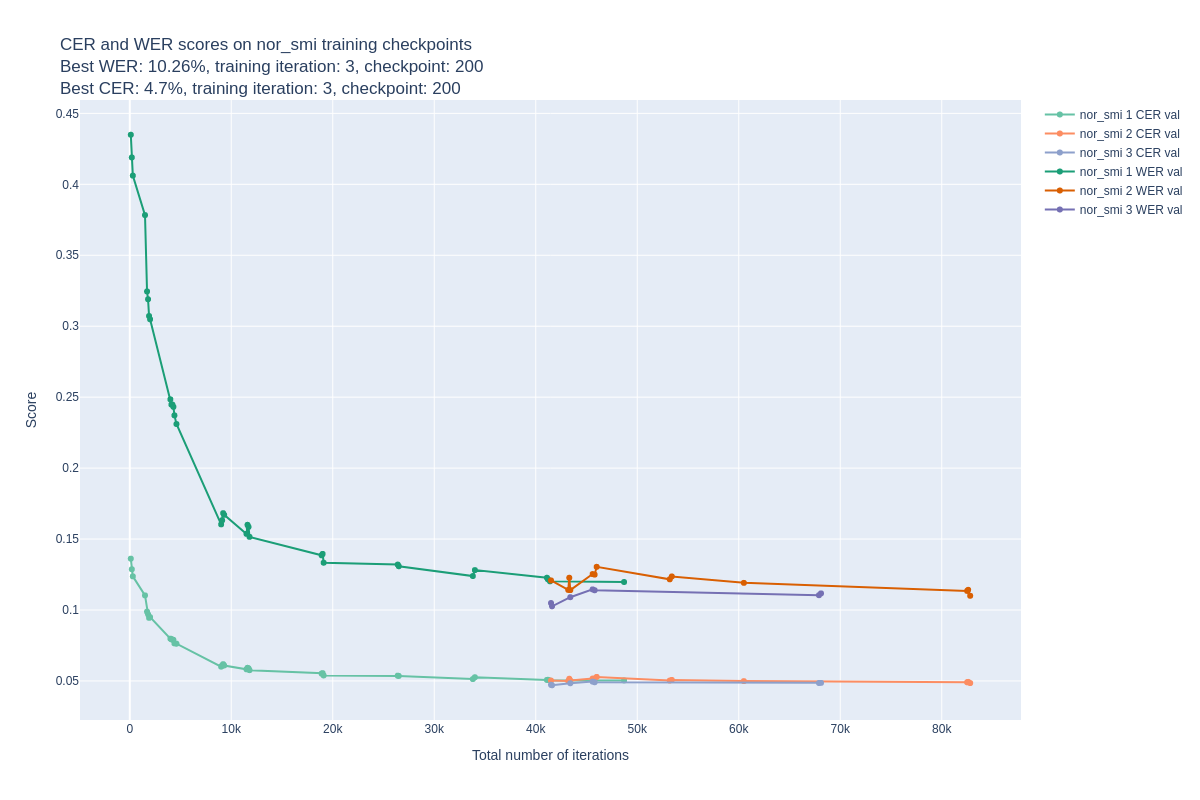
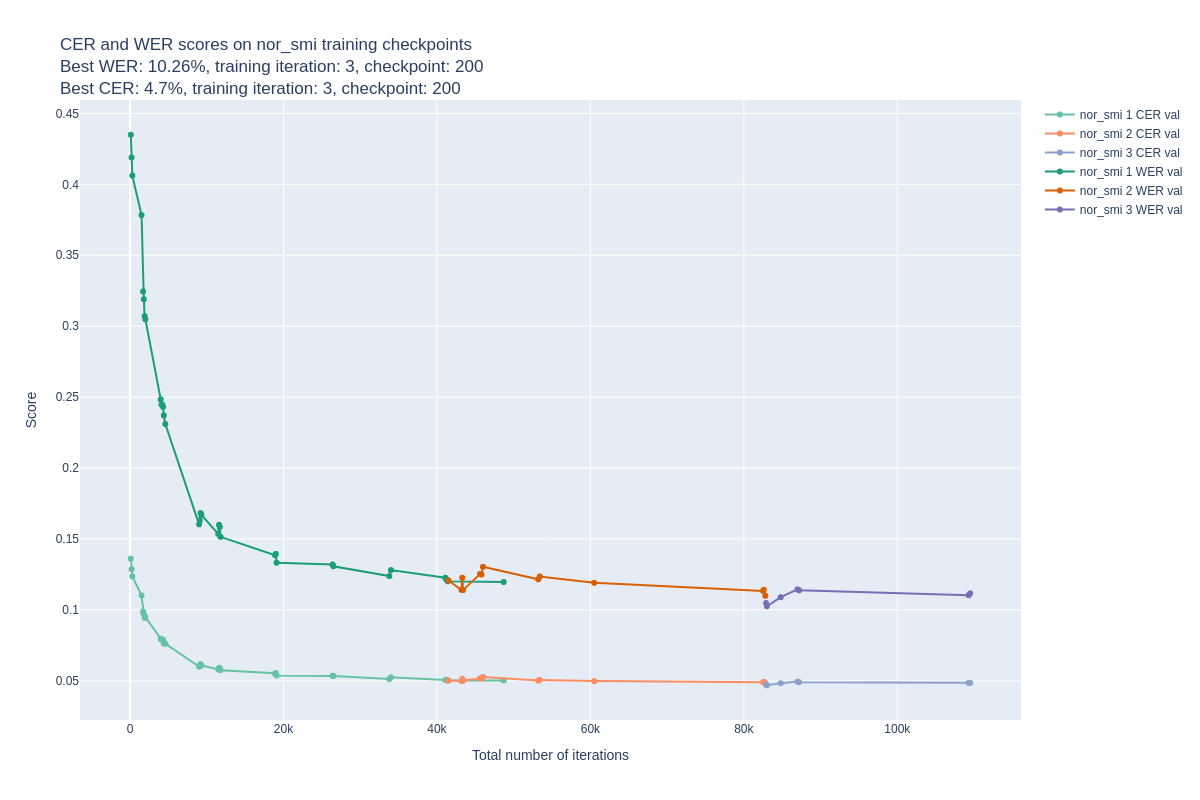
Fiks total number of iterations i plot

diff --git a/src/samisk_ocr/tesseract/plot_tesstrain_checkpoints.py b/src/samisk_ocr/tesseract/plot_tesstrain_checkpoints.py
@@ -86,10 +86,9 @@ def get_overall_fig(model_stem: str, df: pd.DataFrame, color_map: dict[str, str]
         iteration: get_best_iteration(df=df_, score="CER", split="val")
         for iteration, df_ in df.groupby("training_iteration")
     }
-    best_iterations[0] = 0
-    df["total_iterations"] = df.apply(
-        lambda row: row.iteration + best_iterations[row.training_iteration - 1], axis=1
-    )
+    df["total_iterations"] = df.iteration
+    for training_iteration, best_checkpoint in best_iterations.items():
+        df.loc[df.training_iteration > training_iteration, "total_iterations"] += best_checkpoint
 
     fig = go.Figure()
     fig.update_layout(
